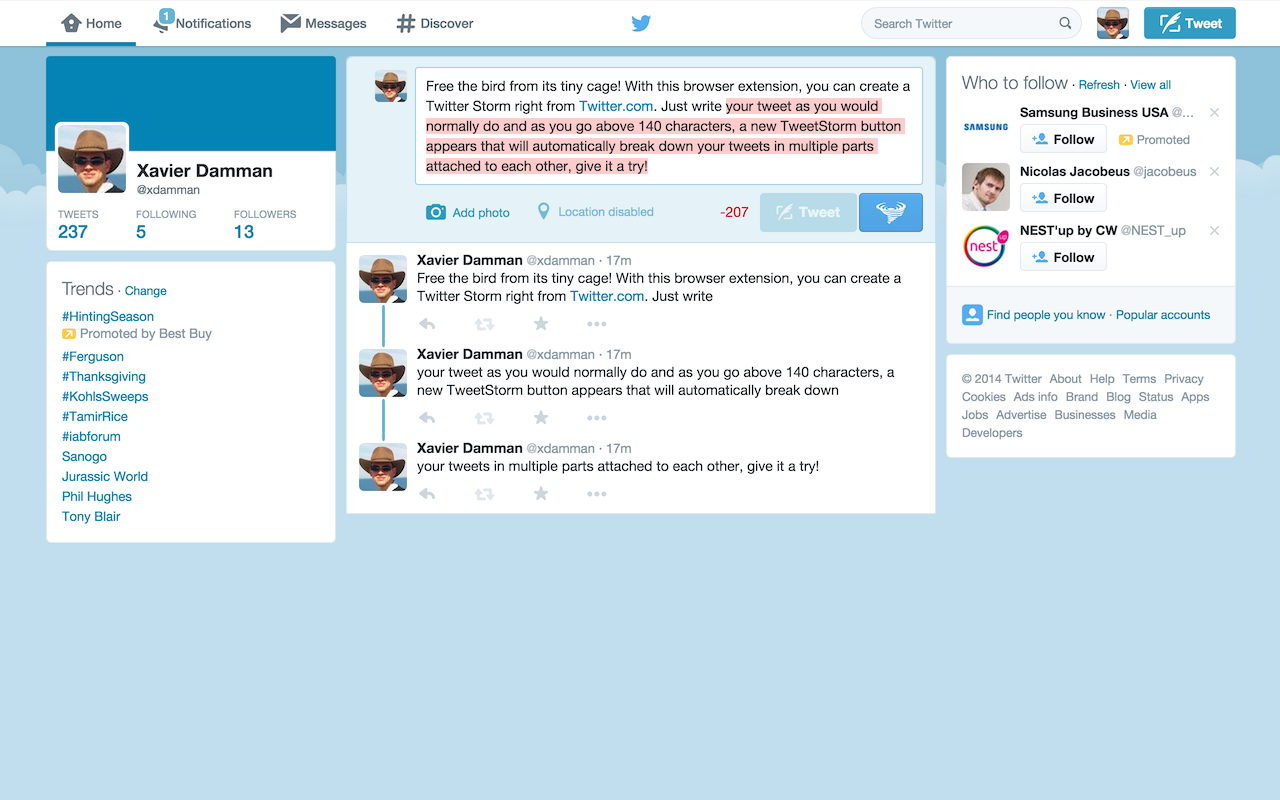
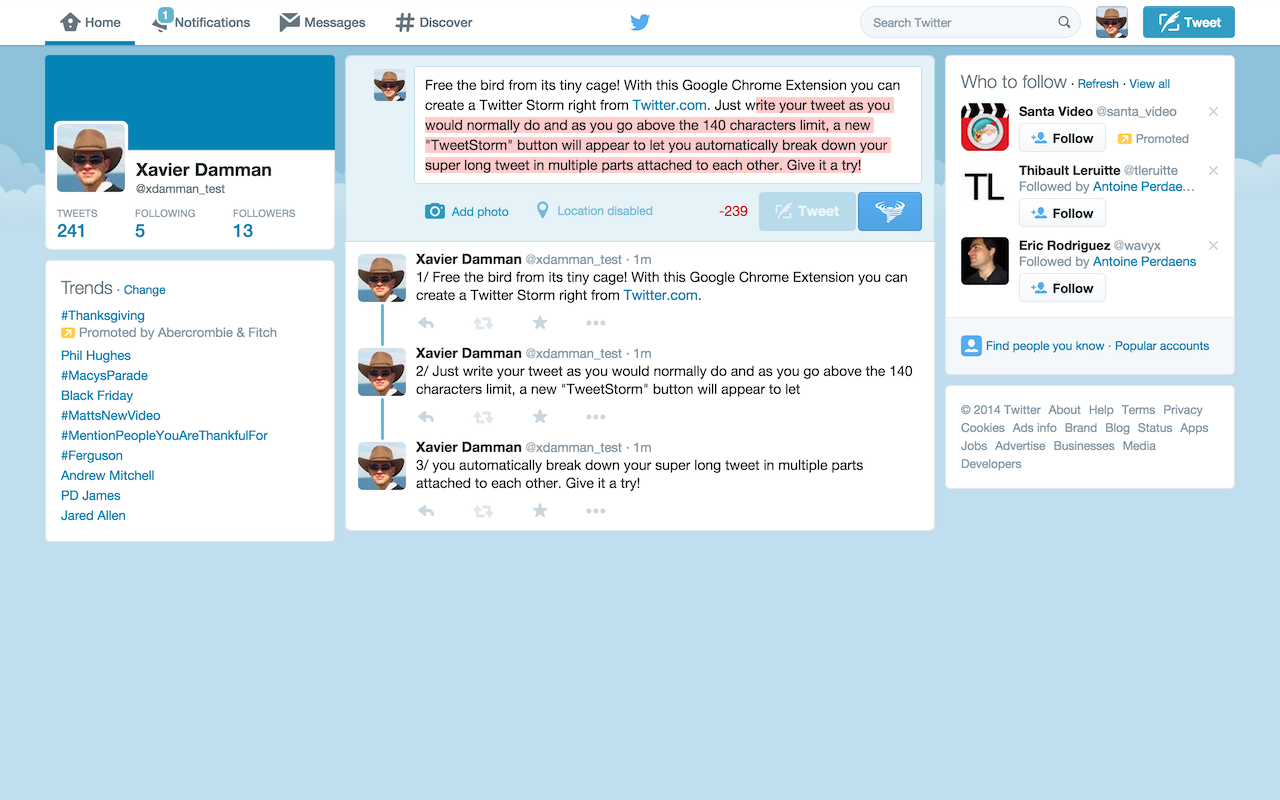
Prepending the tweet number

diff --git a/chrome/content_script.js b/chrome/content_script.js
@@ -1,6 +1,6 @@
 if(typeof contentScriptLoaded == "undefined") {
   contentScriptLoaded = true;
-  console.log("Initializing TweetStorm extension");
+  console.log("TweetStorm> Initializing");
 
   var svg='<svg version="1.0" xmlns="http://www.w3.org/2000/svg" width="30" height="22" viewBox="0 0 600 447" preserveAspectRatio="xMidYMid meet"> <g transform="translate(0,447) scale(0.100000,-0.100000)" fill="#fff" stroke="none"> <path d="M4180 4444 c35 -38 85 -58 250 -99 509 -126 898 -340 1005 -551 26 -51 30 -70 30 -139 0 -119 -37 -189 -169 -319 l-101 -98 -7 38 c-30 162 -58 216 -162 320 -125 125 -273 201 -523 269 -105 29 -394 85 -436 85 -21 0 39 -52 108 -94 39 -24 138 -78 220 -121 328 -170 424 -263 401 -389 -16 -84 -138 -206 -284 -283 -43 -24 -82 -43 -85 -43 -3 0 -5 35 -4 79 0 66 -4 87 -27 134 -65 133 -217 222 -401 234 -52 3 -95 3 -95 0 0 -3 40 -35 88 -70 199 -146 228 -247 105 -365 -121 -115 -369 -198 -733 -244 -156 -19 -639 -16 -805 6 -402 53 -627 137 -691 258 -20 39 -17 102 6 149 25 49 84 88 195 129 188 71 211 81 240 105 l30 24 -27 1 c-101 1 -458 -94 -547 -147 -151 -88 -195 -200 -126 -320 13 -24 20 -43 16 -43 -5 0 -44 12 -87 26 -192 62 -347 171 -375 263 -19 63 1 113 71 181 70 68 157 118 382 221 252 115 300 142 281 153 -27 15 -299 -1 -398 -24 -430 -98 -706 -303 -709 -527 -1 -35 -3 -63 -5 -63 -22 0 -149 86 -196 134 -77 77 -106 137 -106 221 -1 162 147 306 467 452 227 103 645 212 947 248 57 6 57 7 57 40 l0 34 -72 -5 c-567 -38 -1069 -156 -1483 -349 -194 -90 -331 -201 -391 -316 -24 -45 -28 -66 -28 -129 0 -93 30 -157 113 -240 119 -119 290 -209 551 -289 90 -28 164 -52 165 -53 1 -2 15 -23 30 -48 38 -60 135 -155 218 -213 161 -111 316 -181 653 -292 873 -289 1743 -422 2449 -375 319 22 731 79 902 125 249 67 412 184 490 352 18 39 33 74 33 77 0 3 -37 -11 -82 -31 -214 -93 -539 -191 -788 -237 -296 -54 -550 -76 -878 -76 -671 1 -1364 119 -2055 351 -236 79 -308 108 -459 186 -149 76 -182 98 -128 83 150 -42 609 -117 890 -144 535 -53 1401 -53 1895 0 510 54 1011 172 1397 330 226 92 330 155 444 268 86 86 123 146 144 235 65 278 -245 553 -853 756 -286 95 -524 144 -932 191 l-50 5 25 -27z"/> <path d="M2765 3209 c-174 -16 -453 -74 -479 -99 -13 -13 38 -93 80 -125 125 -95 389 -139 709 -116 193 14 425 48 495 72 63 21 120 75 120 113 0 35 -59 82 -133 105 -161 49 -539 73 -792 50z"/> <path d="M5656 3075 c-273 -176 -618 -318 -996 -409 -529 -128 -1445 -196 -1880 -141 -258 32 -502 26 -605 -16 -27 -11 -17 -14 115 -30 627 -80 1236 -113 1645 -90 720 40 1270 163 1543 345 83 55 178 153 219 227 32 57 67 153 61 169 -2 5 -48 -20 -102 -55z"/> <path d="M1220 2514 c0 -14 115 -146 176 -204 384 -359 1021 -579 1894 -654 473 -41 1305 -48 1507 -12 240 42 397 128 467 255 24 46 60 160 52 168 -2 3 -40 -14 -84 -36 -210 -106 -467 -178 -774 -218 -166 -21 -622 -24 -808 -4 -446 46 -887 139 -1349 283 -265 82 -291 93 -571 227 -246 119 -346 161 -443 187 -59 16 -67 17 -67 8z"/> <path d="M2225 1641 c51 -53 204 -156 314 -211 251 -125 565 -206 891 -230 360 -26 700 41 911 179 42 28 82 57 89 66 15 19 40 19 -465 -11 -542 -32 -703 -14 -1155 126 -257 80 -391 110 -515 117 l-110 6 40 -42z"/> <path d="M2310 1368 c1 -73 99 -191 239 -287 144 -99 251 -147 412 -186 355 -86 746 -40 981 114 143 94 159 87 -234 94 -189 3 -395 11 -458 17 -339 32 -609 104 -848 224 -88 44 -92 45 -92 24z"/> <path d="M2340 965 c0 -53 25 -104 78 -158 54 -56 168 -136 251 -177 291 -144 695 -97 889 103 l44 45 -109 6 c-59 3 -189 8 -288 11 -99 3 -223 10 -275 16 -184 20 -375 77 -518 155 -34 19 -65 34 -67 34 -3 0 -5 -16 -5 -35z"/> <path d="M2250 538 c0 -5 14 -39 31 -74 65 -137 217 -305 376 -414 l72 -51 7 38 c13 74 62 146 170 254 58 57 114 116 125 130 l19 27 -208 5 c-216 5 -296 16 -499 71 -55 14 -93 20 -93 14z"/> </g> </svg>'; 
 
@@ -40,8 +40,6 @@ if(typeof contentScriptLoaded == "undefined") {
   sendTweet = function(e) {
     $form.classList.add('tweeting');
     var tweets = splitTweet();
-
-    console.log("tweets: ", tweets);
 
     sendNextTweet(tweets, 0, '', function() {
       setTweetContent('');
@@ -105,9 +103,11 @@ if(typeof contentScriptLoaded == "undefined") {
     }
 
     var words = tweetContent.split(' ');
+    var tweetNumber = 0;
     while(words.length > 0) {
-      var tweet = '';
-      var tweetLength = 0;
+      tweetNumber++;
+      var tweet = tweetNumber+'/';
+      var tweetLength = tweet.length;
       var nextWordLength = isUrl(words[0]) ? 24 : words[0].length +1;
       while(words.length > 0 && (tweetLength + nextWordLength) <= 140) {
         tweet += ' '+words[0]
@@ -116,7 +116,11 @@ if(typeof contentScriptLoaded == "undefined") {
         if(words.length > 0)
           nextWordLength = isUrl(words[0]) ? 24 : words[0].length +1;
       }
-      tweets.push(tweet.substr(1));
+      console.log("TweetStorm> Tweet #"+tweetNumber+" is "+tweetLength+" chars long: "+ tweet, tweet.length);
+      if(words.length>0)
+        console.log("TweetStorm> Next word: "+words[0], words[0].length);
+
+      tweets.push(tweet);
     }
 
     return tweets;

diff --git a/README.md b/README.md
@@ -2,7 +2,7 @@
 
 Get rid of the 140 characters limit on Twitter.com
 
-**[> Install the Google Chrome Extension](https://chrome.google.com/webstore/detail/jhgcnjnaennpeiafcjanlnibelmobbgh/publish-accepted?hl=en&gl=US)**
+**[> Install the Google Chrome Extension](https://chrome.google.com/webstore/detail/tweetstorm/jhgcnjnaennpeiafcjanlnibelmobbgh)**
 
 ![](http://cl.ly/image/1N30011s2t23/Screen%20Shot%202014-11-26%20at%2011.34.01%20AM.png)
 
